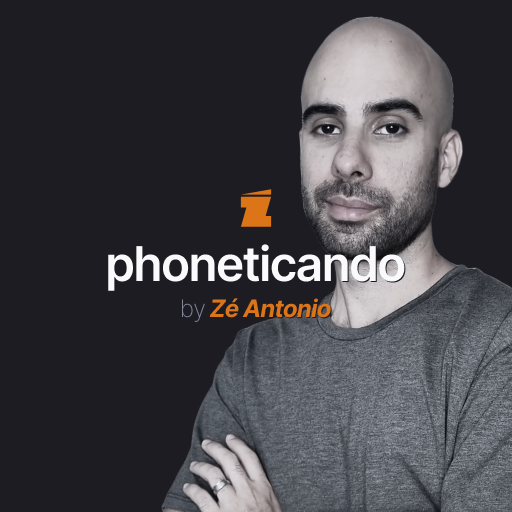
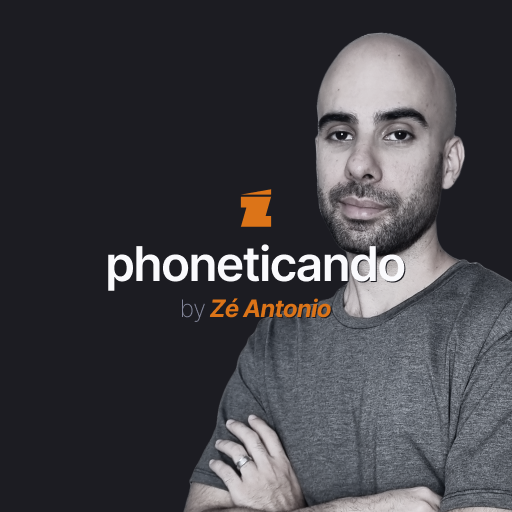
a

Changed region(s): [[0.3125, 0.0312, 1.0, 1.0]]

diff --git a/styles/home.css b/styles/home.css
@@ -1,6 +1,6 @@
 .profile-picture-container {
     margin-bottom: 32px;
-    background-image: linear-gradient(to top, var(--sunset600), var(--graycool1000));
+    background-image: linear-gradient(to top, var(--cerulean800), var(--graycool1000));
 }
 
 .profile-picture-container img {
